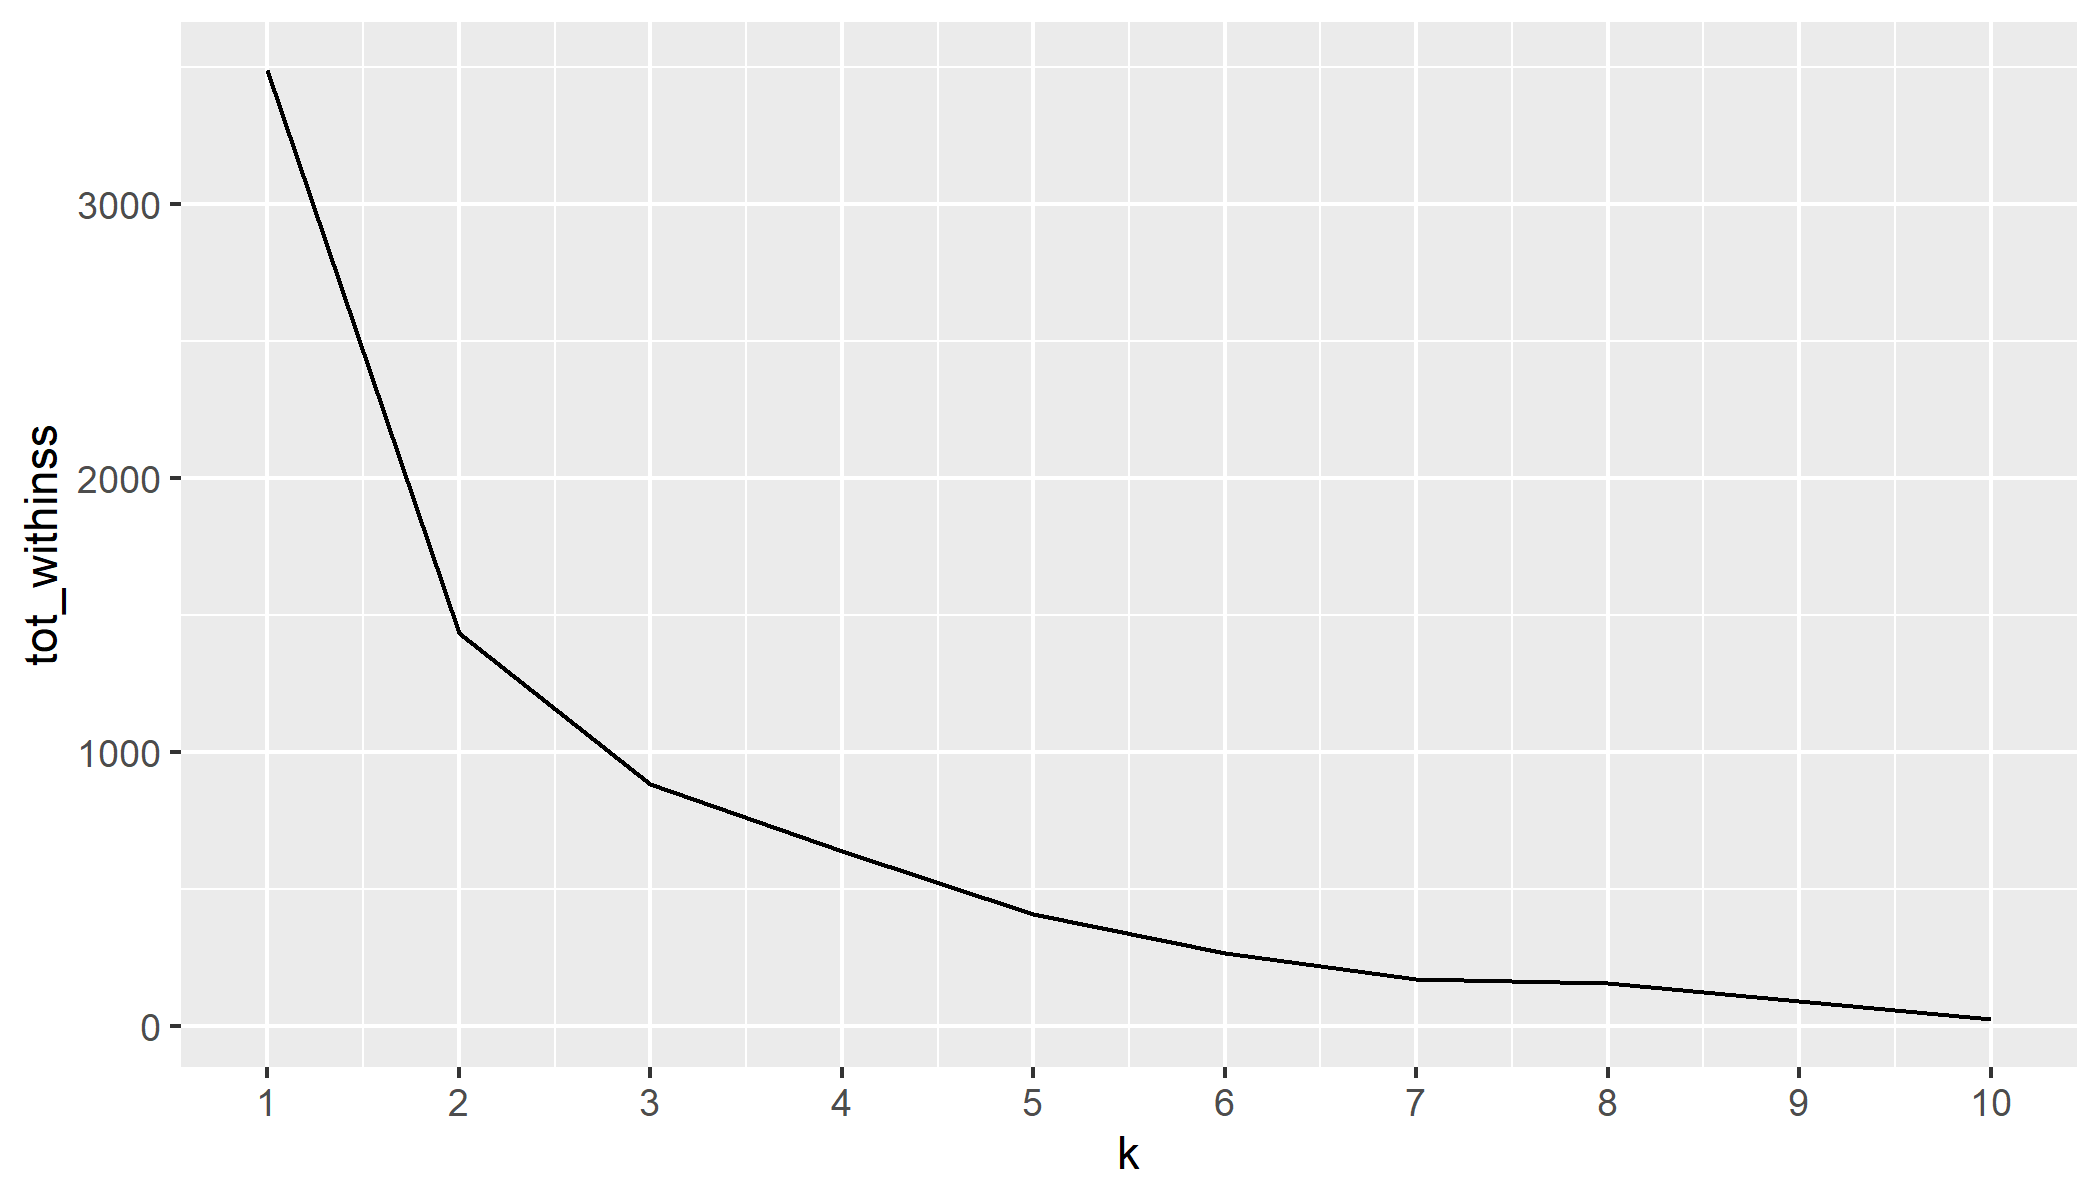
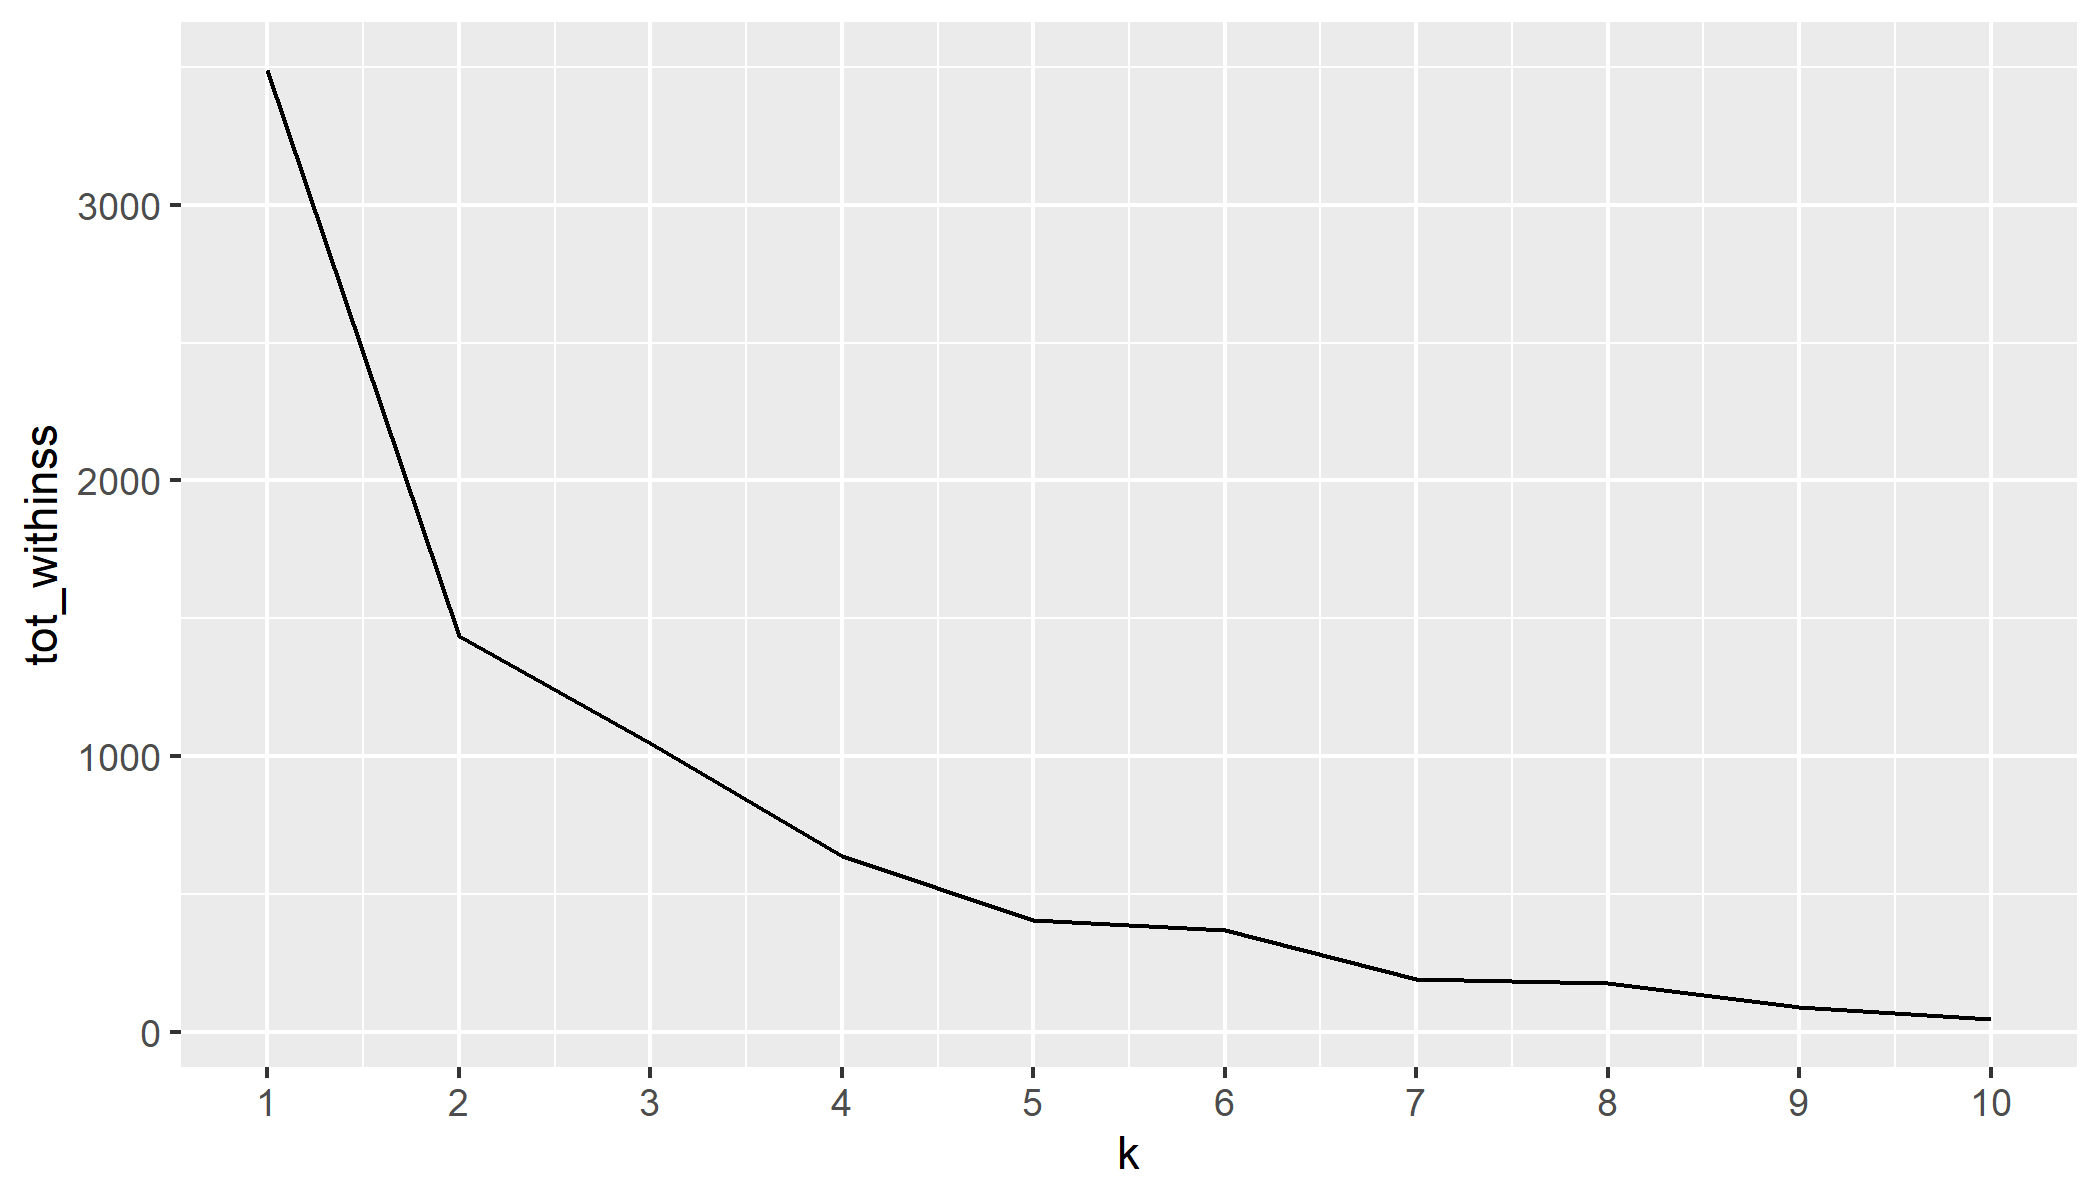
los

diff --git a/Predavanja/06_KLASTER.html b/Predavanja/06_KLASTER.html
@@ -83,16 +83,16 @@ name: kars
 
 &lt;img src="../Foto/klast2.png" width="500px" style="display: block; margin: auto;" /&gt;
 
---
+---
 
 &lt;img src="../Foto/klast3.png" width="500px" style="display: block; margin: auto;" /&gt;
 
 
---
+---
 
 &lt;img src="../Foto/klast4.png" width="500px" style="display: block; margin: auto;" /&gt;
 
---
+---
 
 &lt;img src="../Foto/klast5.png" width="500px" style="display: block; margin: auto;" /&gt;
 
@@ -942,7 +942,7 @@ print(model$cluster)
 ```
 
 ```
-##  [1] 2 2 1 1 2 2 2 1 1 1 2 1
+##  [1] 1 1 2 2 1 1 1 2 2 2 1 2
 ```
 
 ```r
@@ -952,28 +952,28 @@ head(print(lineupKlasteri),6)
 
 ```
 ##      X   Y cluster
-## 1   -1   1       2
-## 2   -2  -3       2
-## 3    8   6       1
-## 4    7  -8       1
-## 5  -12   8       2
-## 6  -15   0       2
-## 7  -13 -10       2
-## 8   15  16       1
-## 9   21   2       1
-## 10  12 -15       1
-## 11 -25   1       2
-## 12  26   0       1
+## 1   -1   1       1
+## 2   -2  -3       1
+## 3    8   6       2
+## 4    7  -8       2
+## 5  -12   8       1
+## 6  -15   0       1
+## 7  -13 -10       1
+## 8   15  16       2
+## 9   21   2       2
+## 10  12 -15       2
+## 11 -25   1       1
+## 12  26   0       2
 ```
 
 ```
 ##     X  Y cluster
-## 1  -1  1       2
-## 2  -2 -3       2
-## 3   8  6       1
-## 4   7 -8       1
-## 5 -12  8       2
-## 6 -15  0       2
+## 1  -1  1       1
+## 2  -2 -3       1
+## 3   8  6       2
+## 4   7 -8       2
+## 5 -12  8       1
+## 6 -15  0       1
 ```
 
 --- 
@@ -1049,21 +1049,21 @@ head(print(elbow_df),5)
 ##     k tot_withinss
 ## 1   1    3489.9167
 ## 2   2    1434.5000
-## 3   3     881.2500
+## 3   3    1049.0833
 ## 4   4     637.2500
 ## 5   5     406.0000
-## 6   6     265.1667
-## 7   7     171.0000
-## 8   8     156.5000
+## 6   6     369.0000
+## 7   7     190.6667
+## 8   8     176.1667
 ## 9   9      88.0000
-## 10 10      23.0000
+## 10 10      45.0000
 ```
 
 ```
 ##   k tot_withinss
 ## 1 1     3489.917
 ## 2 2     1434.500
-## 3 3      881.250
+## 3 3     1049.083
 ## 4 4      637.250
 ## 5 5      406.000
 ```
@@ -1233,6 +1233,31 @@ head(print(sil_df),5)
 ## 4 5 0.3724115
 ## 5 6 0.3436130
 ```
+
+--- 
+
+# Silhouette analiza
+
+
+```r
+ggplot(sil_df, aes(x = k, y = sil_width)) +
+geom_line() +
+scale_x_continuous(breaks = 2:10)
+```
+
+&lt;img src="06_KLASTER_files/figure-html/unnamed-chunk-104-1.png" style="display: block; margin: auto;" /&gt;
+
+
+
+---
+
+class: inverse, center, middle
+
+# Hvala na pažnji
+
+&lt;html&gt;&lt;div style='float:left'&gt;&lt;/div&gt;&lt;hr color='#EB811B' size=1px width=796px&gt;&lt;/html&gt;
+
+(Nastavak: Višestruka linearna regresija)
     </textarea>
 <style data-target="print-only">@media screen {.remark-slide-container{display:block;}.remark-slide-scaler{box-shadow:none;}}</style>
 <script src="https://remarkjs.com/downloads/remark-latest.min.js"></script>

diff --git a/docs/schedule.html b/docs/schedule.html
@@ -414,7 +414,7 @@ $(document).ready(function () {
 <li><p>Hijerarhijski klastering</p></li>
 <li><p>K-means klastering</p></li>
 </ul>
-<p><strong>Format predavanja:</strong> <a href="https://github.com/lusiki/WebMultiVar/blob/main/Predavanja/06_KLASTER.html">.html</a> | <a href="https://github.com/lusiki/WebMultiVar/blob/main/Predavanja/06_KLASTER.Rmd">.Rmd</a> <br> <strong>Čitanje:</strong> <a href="https://zir.nsk.hr/islandora/object/pmf%3A9063/datastream/PDF/view">Msc rad koji koristi Klaster analizu</a> + <a href="https://rpubs.com/shichich/595542">Predavanje iz prošle godine</a> <br> <br></p>
+<p><strong>Format predavanja:</strong> <a href="https://github.com/lusiki/WebMultiVar/blob/main/Predavanja/06_KLASTER.html">.html</a> | <a href="https://github.com/lusiki/WebMultiVar/blob/main/Predavanja/06_KLASTER.Rmd">.Rmd</a> <br> <strong>Čitanje:</strong> <a href="https://zir.nsk.hr/islandora/object/pmf%3A9063/datastream/PDF/view">Msc rad koji koristi Klaster analizu</a> + <a href="https://rpubs.com/shichich/595542">Predavanje iz prošle godine</a> + <a href="https://xsliulab.github.io/Workshop/week10/r-cluster-book.pdf">Knjiga iz klaster analize u R</a> <br> <br></p>
 </div>
 <div id="predavanje-07-diskriminantna-analiza" class="section level3">
 <h3>Predavanje 07: Diskriminantna analiza</h3>
